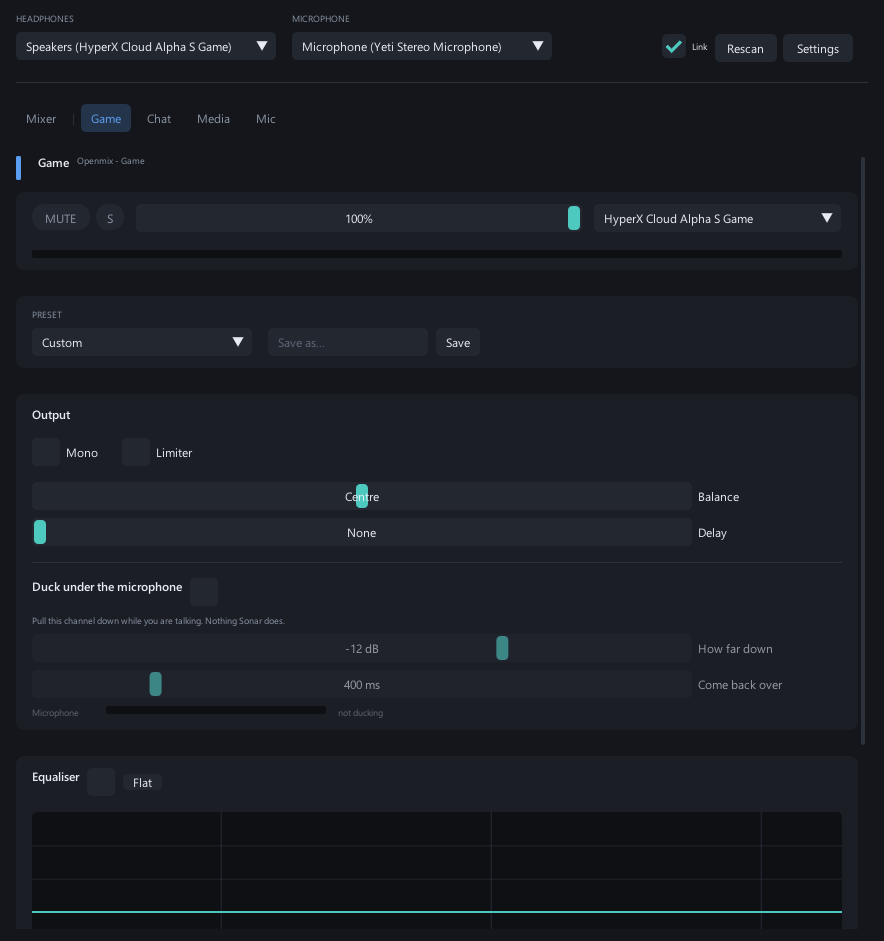
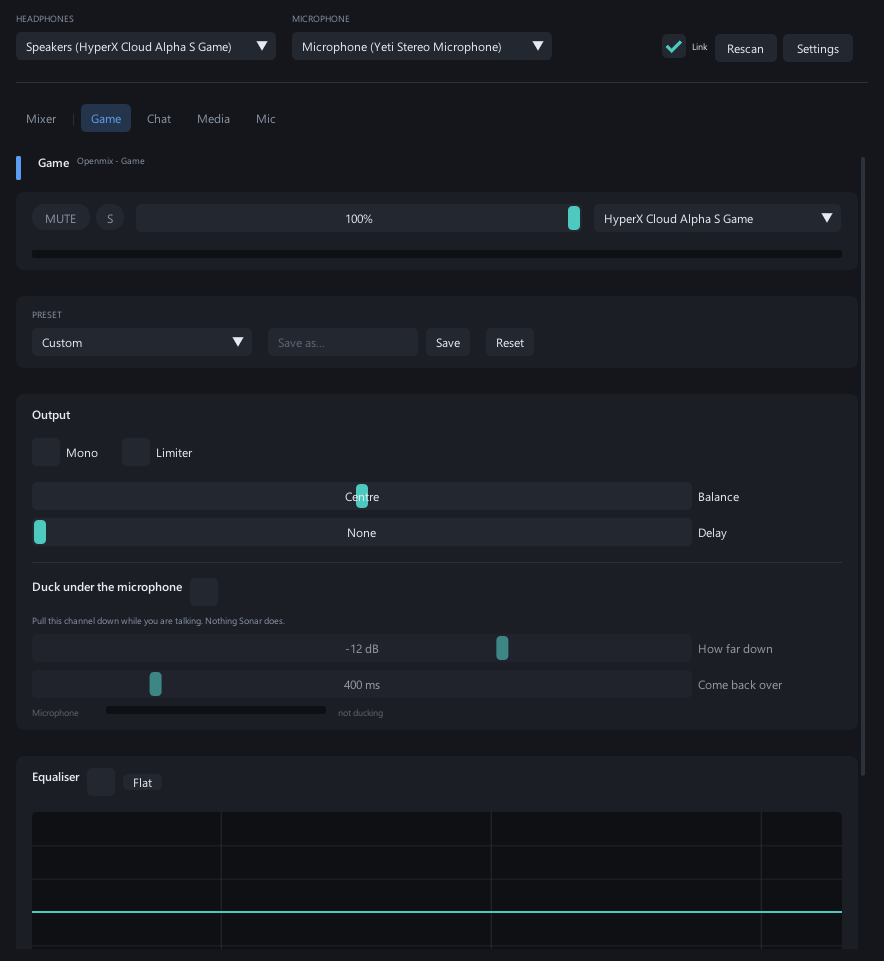
Give a channel a way back to nothing
Reset clears the processing on a channel and leaves its level and output
device alone, because those are how it is set up rather than what is being
experimented with.

Also stops the noise suppressor clamping its channel count to two. It only
ever sees stereo, but clamping would have changed the stride the loop indexes
with and read every frame at the wrong offset -- a bug waiting for the first
caller that was not stereo.

diff --git a/src/gui.cpp b/src/gui.cpp
@@ -1744,7 +1744,7 @@ void drawChannelPage(size_t index, Bus& b) {
     }
 
     ImGui::SameLine(0.0f, 16.0f * g_scale);
-    ImGui::SetNextItemWidth(160.0f * g_scale);
+    ImGui::SetNextItemWidth(150.0f * g_scale);
     const bool enter = ImGui::InputTextWithHint("##pname", "Save as...",
                                                 g_presetName, sizeof(g_presetName),
                                                 ImGuiInputTextFlags_EnterReturnsTrue);
@@ -1756,6 +1756,22 @@ void drawChannelPage(size_t index, Bus& b) {
     }
     tip("Presets are shared across channels, so a curve set up here can be\n"
         "dropped onto any of them");
+
+    // Somewhere to land after an experiment. It leaves the level and the
+    // output device alone: those are how the channel is set up, not how it is
+    // being played with.
+    ImGui::SameLine(0.0f, 16.0f * g_scale);
+    if (ImGui::Button("Reset")) {
+        b.eq = dsp::EqParams{};
+        b.mix = dsp::MixParams{};
+        if (b.isCapture) {
+            b.mic = dsp::MicParams{};
+            b.denoise = dsp::DenoiseParams{};
+        }
+        shown.clear();
+        saveSettings();
+    }
+    tip("Put the processing back to nothing. Level and device stay as they are.");
     ImGui::EndChild();
     ImGui::PopStyleColor();
 

diff --git a/src/denoise.h b/src/denoise.h
@@ -85,7 +85,9 @@ public:
             return;
         }
         if (window_.empty()) prepare(sr_);
-        if (channels > 2) channels = 2;
+        // Sized to whatever arrives rather than clamped to stereo: clamping
+        // would change the stride the loop below indexes with, which reads
+        // every frame at the wrong offset.
         if (dry_.size() < kRing * channels) dry_.assign(kRing * channels, 0.0f);
 
         for (size_t i = 0; i < frames; ++i) {
